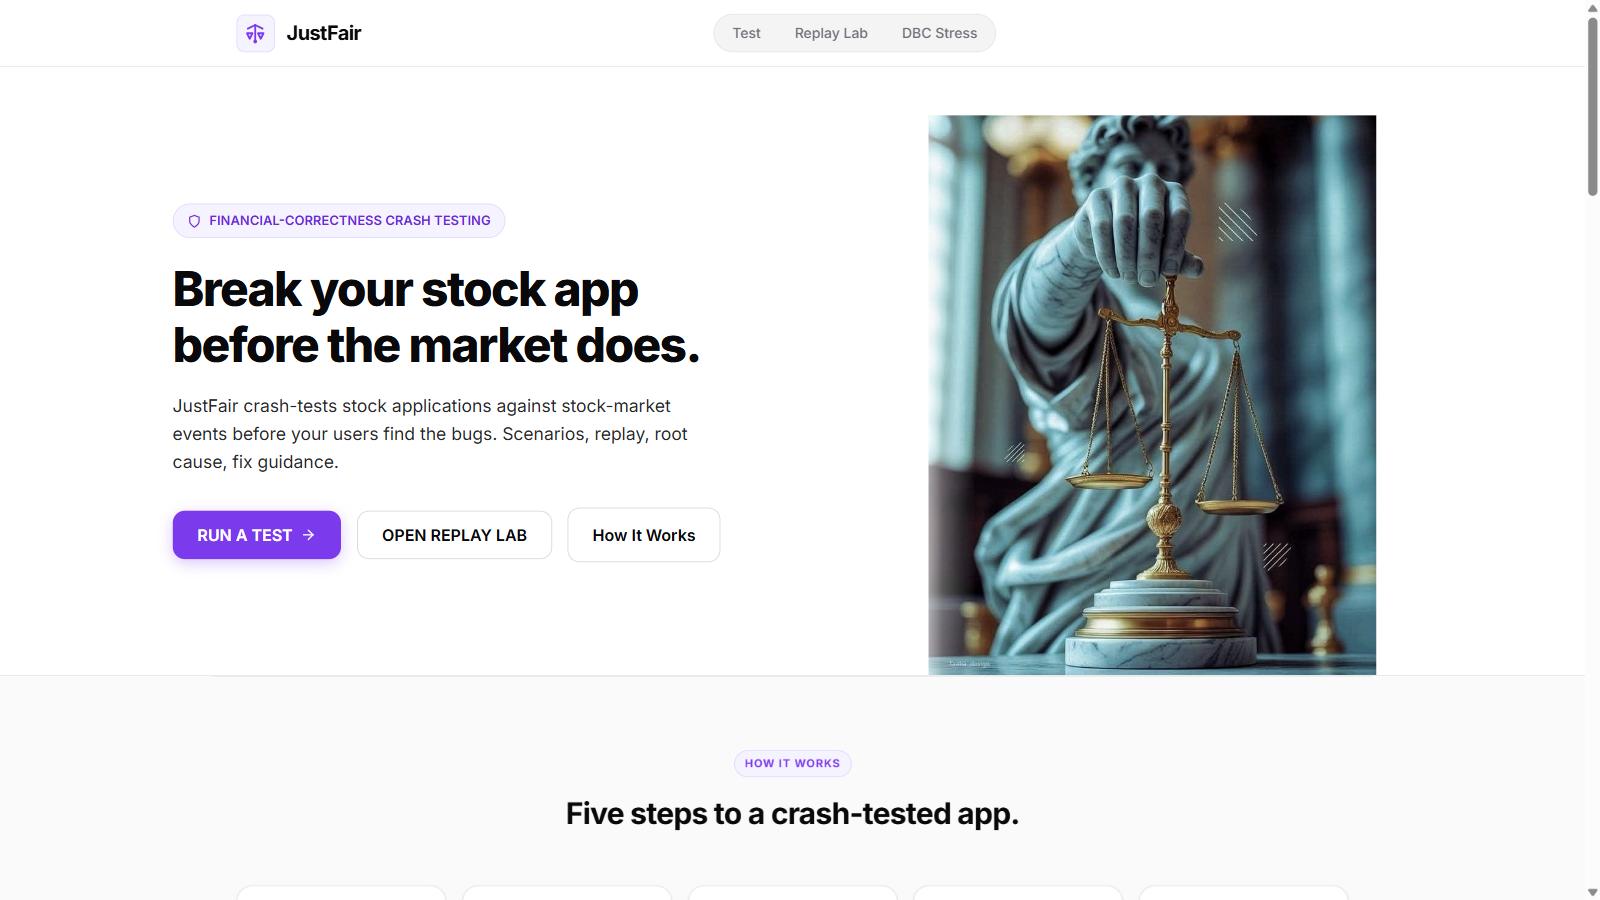
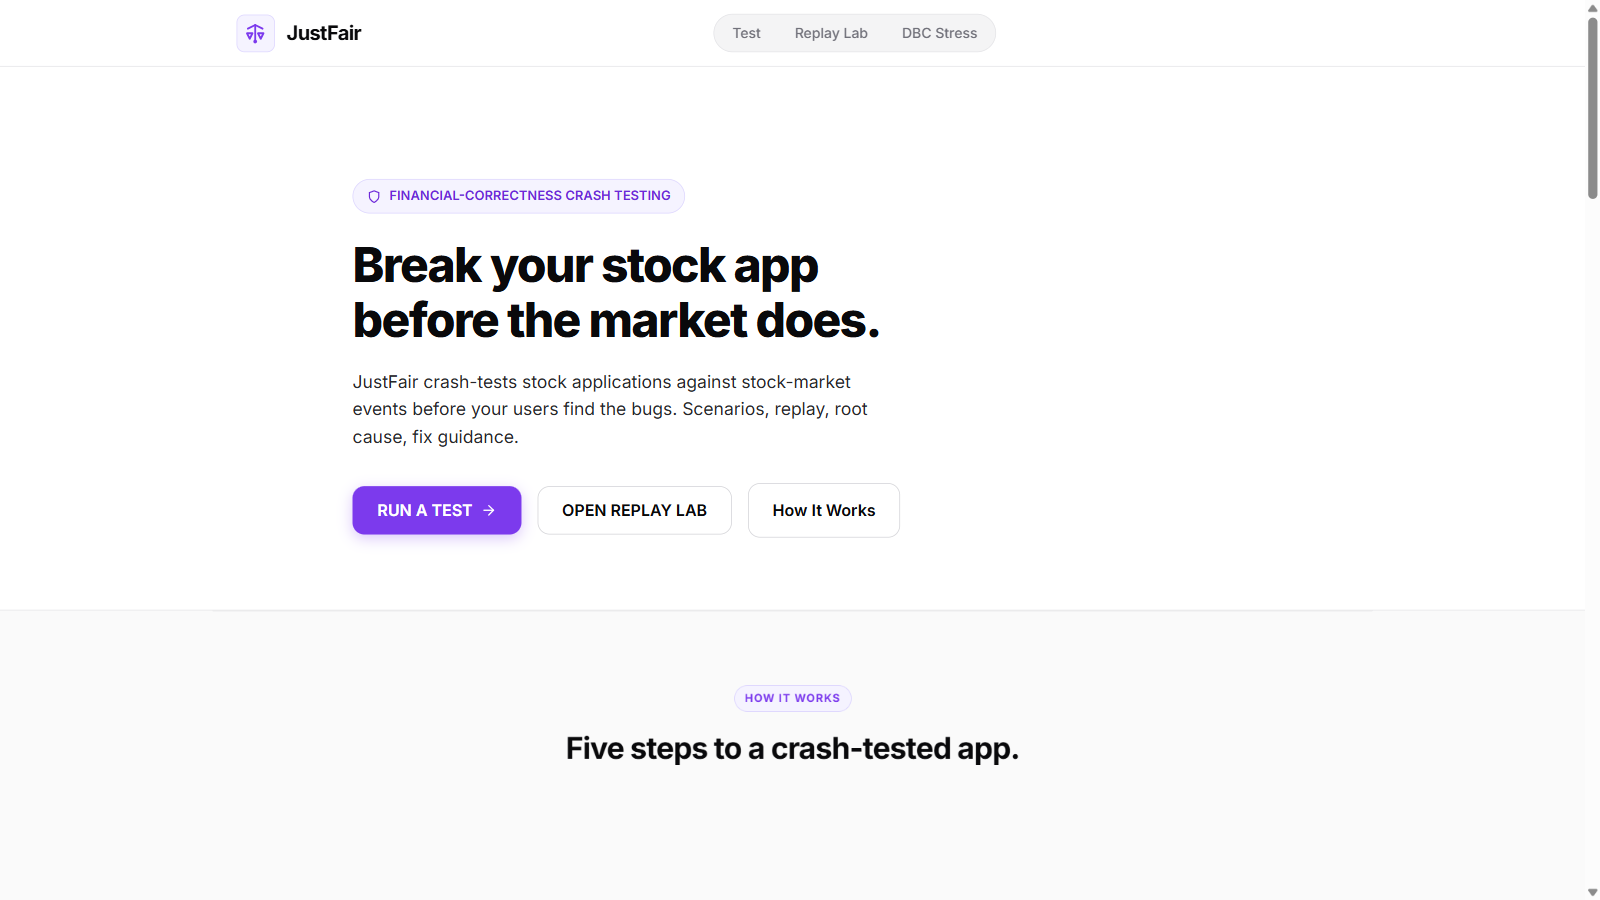
docs(director): record UAT fixes 001A/001B and proof

diff --git a/DIRECTOR.md b/DIRECTOR.md
@@ -608,17 +608,13 @@ PHASE 1 (Director Order 002, in progress). No Phase 2 work started.
   Legacy app code/tests untouched and green; entry via footer legacy
   link. Section tests 2-7 rewritten to current truth; absence regressions
   added (no preflight narrative/badge/CTA on homepage).
-- UAT FIX 001 (homepage coherence): removed 7 legacy consumer sections
-  (two-mistakes, pillars, two-layer comparison, $500 example, old 4-step
-  how-it-works, proof stats, wallet-framed API) + Preflight badge, Open
-  App header CTA, Start-a-Preflight hero CTA, legacy footer framing.
-  Replaced with HOW IT WORKS (CONNECT/TEST/BREAK/FIX/VERIFY), WHAT
-  JUSTFAIR TESTS (5 packs), engine-sampled failure example (populated
-  from /samples/tessera-fail.json at runtime), dev integration block,
-  subtle sponsor proof, rewritten API drawer (/api/v1/dbc/whale).
-  Legacy app code/tests untouched and green; entry via footer legacy
-  link (all 12 app-entry test clicks repointed). Stale section tests
-  2-7 rewritten to current truth; new absence regressions added.
+- UAT FIX 001A (public legacy entry removed): footer "Trade-check app
+  (legacy)" link deleted; 12 app-entry test clicks repointed to direct
+  #app navigation; dead listener removed; legacy code/tests untouched.
+- UAT FIX 001B (hero image removed): Lady Justice art column deleted, hero
+  is one-column (content ≤880px, verified 880px desktop); no replacement
+  graphics; mobile still zero-overflow. Test 1 rewritten (absence +
+  balance assertions).
 
 ## 23. BLOCKERS
 
